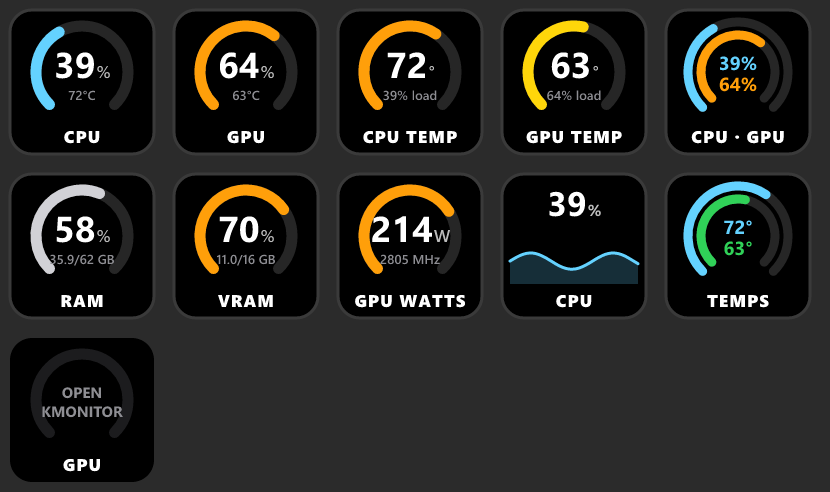
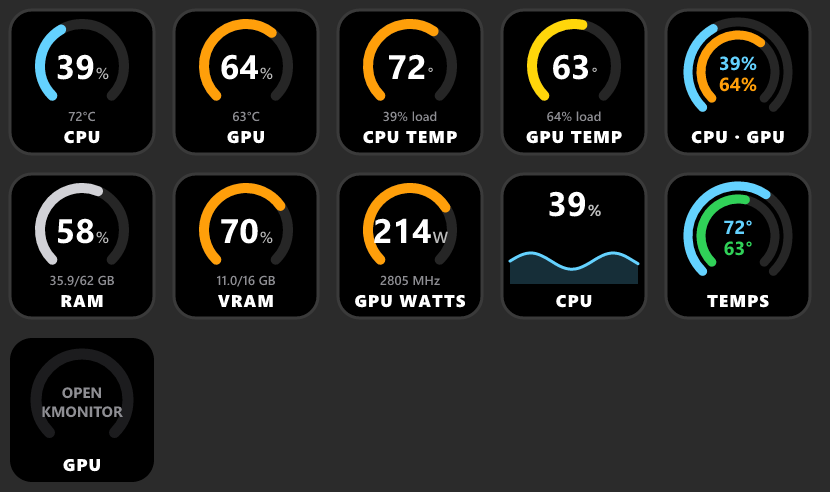
Stream Deck: keep the small line clear of the gauge ends

diff --git a/streamdeck/src/render.ts b/streamdeck/src/render.ts
@@ -77,10 +77,11 @@ function gauge(r: Reading, label: string) {
   const frac = r.value == null ? 0 : (r.value - r.min) / (r.max - r.min);
   const value = r.value == null ? "—" : Math.round(r.value).toString();
   return frame(
-    `<path d="${arc(72, 62, 46, 1)}" fill="none" stroke="#262626" stroke-width="11" stroke-linecap="round"/>
-${r.value == null ? "" : `<path d="${arc(72, 62, 46, frac)}" fill="none" stroke="${r.color}" stroke-width="11" stroke-linecap="round"/>`}
-<text x="72" y="${r.sub ? 68 : 74}" text-anchor="middle" ${FONT} font-size="36" font-weight="700" fill="#fff">${value}<tspan font-size="17" font-weight="600" fill="#bbb" dx="1">${esc(r.unit)}</tspan></text>
-${r.sub ? `<text x="72" y="90" text-anchor="middle" ${FONT} font-size="13" font-weight="600" fill="#8e8e93">${esc(r.sub)}</text>` : ""}`,
+    // The arc's ends sit around y=93, so the small line goes below them, above the label.
+    `<path d="${arc(72, 56, 42, 1)}" fill="none" stroke="#262626" stroke-width="10" stroke-linecap="round"/>
+${r.value == null ? "" : `<path d="${arc(72, 56, 42, frac)}" fill="none" stroke="${r.color}" stroke-width="10" stroke-linecap="round"/>`}
+<text x="72" y="69" text-anchor="middle" ${FONT} font-size="34" font-weight="700" fill="#fff">${value}<tspan font-size="16" font-weight="600" fill="#bbb" dx="1">${esc(r.unit)}</tspan></text>
+${r.sub ? `<text x="72" y="111" text-anchor="middle" ${FONT} font-size="13" font-weight="600" fill="#8e8e93">${esc(r.sub)}</text>` : ""}`,
     label || r.label,
   );
 }
